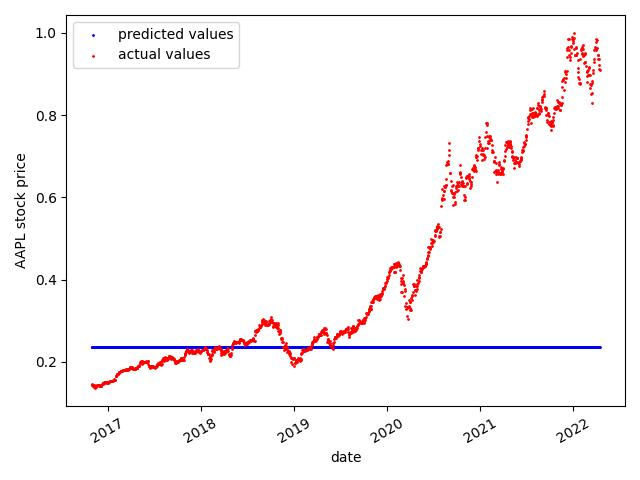
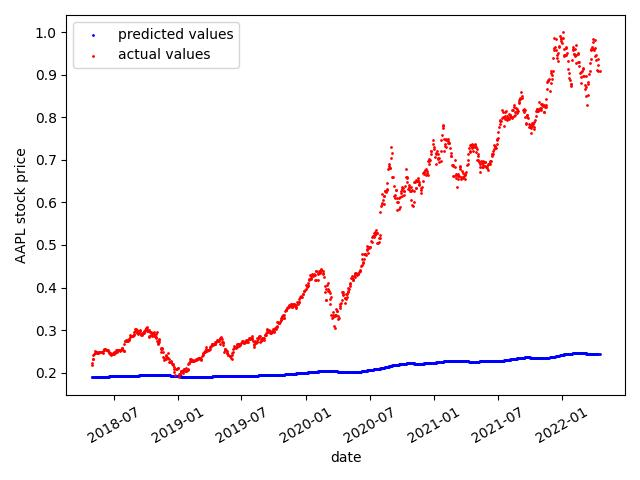
Improve implementation and (hopefully) correct back propagation algorithm

diff --git a/multi_layer_perceptron.py b/multi_layer_perceptron.py
@@ -1,9 +1,10 @@
 import numpy as np
 
 
-def init_neural_network(dims):
+def _init_neural_network(dims):
     '''
-    Initializes the weights for a fully connected neural network. Augments weights to include bias term.
+    Randomly initializes the weights for a fully connected neural network.
+    Augments weights to include bias term.
 
     w_l1: l1_dim x l2_dim
     w_l2: l2_dim x 1
@@ -12,10 +13,11 @@ def init_neural_network(dims):
     return w
 
 
-def do_forward_propagation(X, w):
+def do_forward_pass(X, w):
     '''
-    Performs forward propagation. Iterates over the layers in the neural network
-    and computes the prediction.
+    Performs a forward pass through the neural network. Iterates over the
+    layers in the neural network and computes the prediction. Uses sigmoid
+    activation.
     '''
     def sigmoid(z):
         return 1 / (1 + np.exp(-z))
@@ -23,19 +25,18 @@ def do_forward_propagation(X, w):
 
     Ys = [X]
     for i in range(len(w)):
-        Ys.append(sigmoid_v(Ys[i].dot(w[i])))
+        Ys.append(sigmoid_v(np.matmul(Ys[i], w[i])))
     return Ys
 
 
-def calc_loss_and_risk(Ys, t, loss_as_vec=False):
+def calc_loss_and_risk(Ys, t):
     '''
-    Calculates the loss (using mean square error) and risk (using mean absolute difference) associated with Ys.
+    Calculates the loss (using mean square error) and risk (using mean
+    absolute difference) associated with Ys.
     '''
     t = np.reshape(t, [t.shape[0], 1])
-
     # Mean square error
-    loss = (1 / Ys[-1].shape[0]) * (Ys[-1] - t) ** 2 if loss_as_vec else (1 / \
-            Ys[-1].shape[0]) * np.linalg.norm(Ys[-1] - t, 2) ** 2
+    loss = (1 / Ys[-1].shape[0]) * np.linalg.norm(Ys[-1] - t, 2) ** 2
     # Mean absolute difference
     risk = (1 / Ys[-1].shape[0]) * np.linalg.norm(np.absolute(Ys[-1] - t), 1)
     return loss, risk
@@ -43,25 +44,38 @@ def calc_loss_and_risk(Ys, t, loss_as_vec=False):
 
 def do_backward_propagation(w, Ys, t):
     '''
-    Performs gradient descent using back propagation.
+    Calculates dws to use in gradient descent using back propagation.
     '''
     def signmoid_derivative(y):
-        return y * (1 - y)
+        y_sigmoid = 1 / (1 + np.exp(-y))
+        return y_sigmoid * (1 - y_sigmoid)
     sigmoid_derivative_v = np.vectorize(signmoid_derivative)
+    loss, _ = calc_loss_and_risk(Ys, t)
 
-    loss, _ = calc_loss_and_risk(Ys, t, loss_as_vec=True)
-
-    dws = [loss * sigmoid_derivative_v(Ys[-1])]
-    for i in range(len(w) - 1, 0, -1):
-        dws.append(np.dot(dws[-1], np.transpose(w[i]))
-                   * sigmoid_derivative_v(Ys[i]))
+    # Derivative of loss function - mean square error
+    loss_derivative = (2 / Ys[-1].shape[0]) * np.linalg.norm(Ys[-1] - t, 2)
+    dzs = [loss_derivative * sigmoid_derivative_v(Ys[-1])]
+    dws = []
+    for i in range(len(w) - 1, -1, -1):
+        dws.append(np.matmul(np.transpose(Ys[i]), dzs[-1]))
+        # Derivative of loss function - mean square error
+        loss_derivative = (2 / Ys[-1].shape[0]) * np.linalg.norm(Ys[-1] - t, 2)
+        dzs.append(loss_derivative * sigmoid_derivative_v(dzs[-1]))
     return dws, loss
 
 
 def mlp_train(X_train, t_train, X_val, t_val, hyperparams):
+    '''
+    Train a multi-layer perceptron using mini-batch gradient descent via
+    back propagation with l2-regularization.
+    '''
     # Dimensions in the format [input layer, hidden layer, output layer]
-    neural_network_dims = [X_train.shape[1], X_train.shape[1] // 2, 1]
-    w = init_neural_network(neural_network_dims)
+    # https://stats.stackexchange.com/questions/181/how-to-choose-the-number-of-hidden-layers-and-nodes-in-a-feedforward-neural-netw
+    neural_network_dims = [
+        X_train.shape[1],
+        X_train.shape[1] // 2,
+        1]
+    w = _init_neural_network(neural_network_dims)
 
     losses_train = []
     risks_val = []
@@ -86,25 +100,27 @@ def mlp_train(X_train, t_train, X_val, t_val, hyperparams):
                                                       1) *
                               hyperparams.batch_size]
 
-            Ys = do_forward_propagation(X_batch, w)
+            Ys = do_forward_pass(X_batch, w)
             dws, loss = do_backward_propagation(w, Ys, t_batch)
-            loss_this_epoch += np.linalg.norm(loss, 1)
+            dws = dws[::-1]
+            loss_this_epoch += loss
             # Mini-batch gradient descent (dws is in reverse order)
             for i in range(len(w)):
                 # Use l2 regularization
-                w[i] -= hyperparams.alpha * \
-                    (np.dot(np.transpose(Ys[i]), dws[-(i + 1)]) + hyperparams.decay * w[i])
+                w[i] -= hyperparams.alpha * dws[i] + \
+                    (hyperparams.decay * w[i])
 
         # Compute the training loss by averaging loss_this_epoch
         training_loss = loss_this_epoch / num_batches
         losses_train.append(training_loss)
+
         # Perform validation on the validation set by the risk
-        Ys = do_forward_propagation(X_val, w)
+        Ys = do_forward_pass(X_val, w)
         _, risk = calc_loss_and_risk(Ys, t_val)
         risks_val.append(risk)
+
         # Keep track of the best validation epoch, risk, and the weights
         if risk < risk_best:
-            w_best = w
-            risk_best, epoch_best = risk, epoch
+            w_best, risk_best, epoch_best = w, risk, epoch
 
     return w_best, risk_best, epoch_best, losses_train, risks_val
